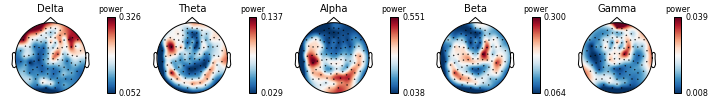
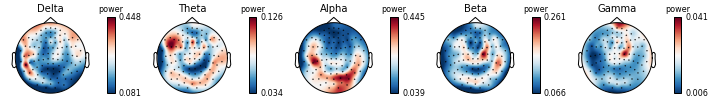
Changed dynamic fig generation

diff --git a/MNE_Testing/firstStreaming.py b/MNE_Testing/firstStreaming.py
@@ -77,10 +77,13 @@ def drawTopo (raw):
     
     #=======================================================
     #==========TOPOGRAPHICAL MAPS===========================
-    topomap = epochs.plot_psd_topomap(ch_type='grad', normalize=True)
+    topomap = epochs.plot_psd_topomap(ch_type='grad', normalize=True, bands=BANDS)
     return topomap
       
-    
+def saveImage (image,value=0):
+    fig = image
+    name = "figs/fig" + str(value) + ".png"
+    fig.savefig(name)        
     
 def beginStreaming (raw, raw2, interval = 0.5):
     for i in range (0, int(raw._times[-1])):
@@ -92,6 +95,8 @@ def beginStreaming (raw, raw2, interval = 0.5):
 
 def beginVisualizing (raw, images, interval = 5, initial=20, bufferSize = 100):
     time.sleep(initial)
+    global count
+    
     while t1.is_alive():
         
         if len(raw)>bufferSize:
@@ -103,7 +108,11 @@ def beginVisualizing (raw, images, interval = 5, initial=20, bufferSize = 100):
             except:
                 print "End of file..."
             try:
-                images.append(drawTopo(tempRaw))
+                image = drawTopo(tempRaw)
+                images.append(image)
+                saveImage(image, count)
+                count = count + 1
+                
             except: 
                 x=0
         time.sleep(interval)
@@ -140,35 +149,51 @@ def visualize():
     
     print 4
     global t2
-    t2 = threading.Thread(target=beginVisualizing, args=([raw2, images, 1, 15, 3500]))
+    t2 = threading.Thread(target=beginVisualizing, args=([raw2, images, 1, 15, 5000]))
     t2.start()     
+
     
     print 5
     t1.join()
     t2.join()
+
     print ("Done")
     return images
 
+def createGif (folder='figs'):
+    with imageio.get_writer('movie.gif', mode='I') as writer:
+        for file in os.listdir("figs"):
+            if file.endswith(".png"):
+                filename = folder + "/" + str(file)
+                print filename
+                image = imageio.imread(filename)
+                writer.append_data(image)
 
+
+count=0
 images = []
 t1 = -1
 t2 = -1
+
+#16 images args=([raw2, images, 1, 15, 5000]
+BANDS = [(0, 4, 'Delta'), (4, 8, 'Theta'), (8, 12, 'Alpha'), (12, 30, 'Beta'), (30, 45, 'Gamma')]
+
+#31 images args=([raw2, images, 1, 15, 5000]
+#BANDS = [(0, 45, 'All')]
+         
+#19 images args=([raw2, images, 1, 15, 5000]
+#BANDS = [(0, 4, 'Delta'), (4, 8, 'Theta'), (8, 12, 'Alpha'), (12, 40, 'Beta')]
+         
+import time
+start_time = time.time()
+
 with suppress_stdout():
     print "starting"
     images = visualize()    
 print ("DONE")
-
-names=[]
-for i in range (0, len(images)):
-    fig = images[i]
-    name = "figs/fig" + str(i) + ".png"
-    fig.savefig(name)
-    names.append(name)
+print("--- %s seconds ---" % (time.time() - start_time))
 
 
-import imageio
-with imageio.get_writer('movie.gif', mode='I') as writer:
-    for filename in names:
-        image = imageio.imread(filename)
-        writer.append_data(image)
 
+
+createGif('figs')
